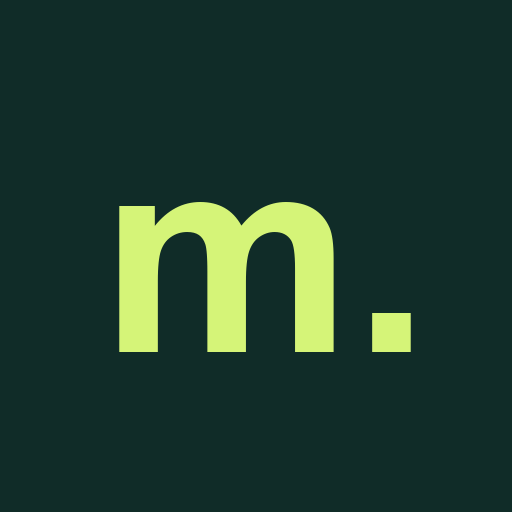
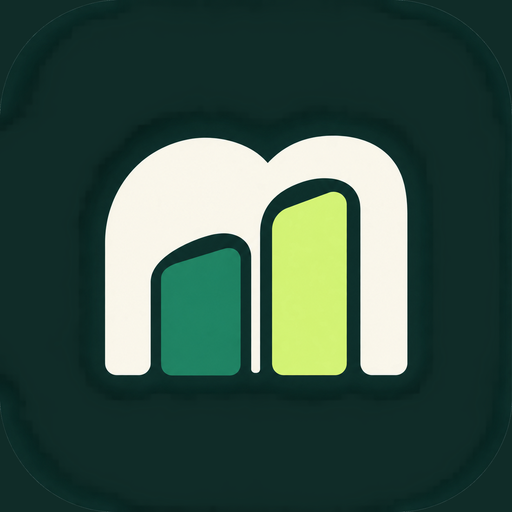
Adiciona novo ícone do Meu dinheiro

Changed region(s): [[0.1875, 0.25, 0.8125, 0.75]]

diff --git a/index.html b/index.html
@@ -1,2 +1,3 @@
-<!doctype html><html lang="pt-BR"><head><meta charset="utf-8"><meta name="viewport" content="width=device-width,initial-scale=1,viewport-fit=cover"><meta name="theme-color" content="#102c28"><meta name="description" content="Seu orçamento, contas e metas em um só lugar."><meta name="apple-mobile-web-app-capable" content="yes"><title>Meu dinheiro</title><link rel="manifest" href="./manifest.webmanifest"><link rel="icon" href="./icon.svg"><link rel="apple-touch-icon" href="./icon-192.png"><link rel="stylesheet" href="./style.css"><link rel="stylesheet" href="./cloud.css"></head><body><aside><a class="brand" href="#inicio"><span class="logo">m.</span> meu dinheiro</a><p class="side-label">SEU ESPAÇO FINANCEIRO</p><nav id="nav"></nav><div class="side-bottom">Sincronizado na sua conta<br><small>Seu dinheiro, no seu ritmo.</small></div></aside><div class="shell"><div class="cloud-bar"><div><strong id="account-name">Sua conta</strong><span id="sync-status" role="status">Conectando…</span></div><div class="zoom-control" aria-label="Tamanho da tela"><button id="zoom-out" type="button" aria-label="Diminuir tamanho">A−</button><span id="zoom-value">100%</span><button id="zoom-in" type="button" aria-label="Aumentar tamanho">A+</button></div><button id="retry-sync" hidden>Sincronizar</button><button id="resolve-conflict" hidden>Carregar versão da conta</button><button id="migrate-local" hidden>Importar dados deste aparelho</button><button id="logout" hidden>Sair</button></div><header><div><span class="eyebrow">VIDA FINANCEIRA</span><h1 id="title">Visão geral</h1></div><div class="header-actions"><input id="month" type="month" aria-label="Mês do planejamento"><button class="primary" id="add">＋ <span>Novo lançamento</span></button></div></header><main id="content"></main><footer>Confira o status de sincronização antes de fechar.</footer></div><nav id="mobile-nav"></nav><dialog id="modal"><div class="dialog-head"><h2 id="modal-title"></h2><button id="close" aria-label="Fechar">✕</button></div><form id="form"></form></dialog><div id="toast" role="status"></div><section id="account-gate"><div class="login-card"><span class="logo">m.</span><h1>Seu dinheiro,<br>em qualquer aparelho.</h1><p id="account-message">Conectando à sua conta…</p><button id="google-login" class="primary" hidden>Entrar com Google</button><button id="retry-account" hidden>Tentar novamente</button><small>Use a mesma conta Google em todos os aparelhos. Somente você tem acesso ao orçamento da sua conta.</small></div></section><script src="./zoom.js"></script><script src="./app.js?v=10"></script><script type="module">import('./cloud.js').catch(()=>{document.querySelector('#account-message').textContent='Não foi possível carregar a conexão. Verifique sua internet e tente novamente.';const b=document.querySelector('#retry-account');b.hidden=false;b.onclick=()=>location.reload();});</script></body></html>
+<!doctype html><html lang="pt-BR"><head><meta charset="utf-8"><meta name="viewport" content="width=device-width,initial-scale=1,viewport-fit=cover"><meta name="theme-color" content="#102c28"><meta name="description" content="Seu orçamento, contas e metas em um só lugar."><meta name="apple-mobile-web-app-capable" content="yes"><title>Meu dinheiro</title><link rel="manifest" href="./manifest.webmanifest"><link rel="icon" href="./icon-192.png"><link rel="apple-touch-icon" href="./icon-192.png"><link rel="stylesheet" href="./style.css"><link rel="stylesheet" href="./cloud.css"></head><body><aside><a class="brand" href="#inicio"><span class="logo">m.</span> meu dinheiro</a><p class="side-label">SEU ESPAÇO FINANCEIRO</p><nav id="nav"></nav><div class="side-bottom">Sincronizado na sua conta<br><small>Seu dinheiro, no seu ritmo.</small></div></aside><div class="shell"><div class="cloud-bar"><div><strong id="account-name">Sua conta</strong><span id="sync-status" role="status">Conectando…</span></div><div class="zoom-control" aria-label="Tamanho da tela"><button id="zoom-out" type="button" aria-label="Diminuir tamanho">A−</button><span id="zoom-value">100%</span><button id="zoom-in" type="button" aria-label="Aumentar tamanho">A+</button></div><button id="retry-sync" hidden>Sincronizar</button><button id="resolve-conflict" hidden>Carregar versão da conta</button><button id="migrate-local" hidden>Importar dados deste aparelho</button><button id="logout" hidden>Sair</button></div><header><div><span class="eyebrow">VIDA FINANCEIRA</span><h1 id="title">Visão geral</h1></div><div class="header-actions"><input id="month" type="month" aria-label="Mês do planejamento"><button class="primary" id="add">＋ <span>Novo lançamento</span></button></div></header><main id="content"></main><footer>Confira o status de sincronização antes de fechar.</footer></div><nav id="mobile-nav"></nav><dialog id="modal"><div class="dialog-head"><h2 id="modal-title"></h2><button id="close" aria-label="Fechar">✕</button></div><form id="form"></form></dialog><div id="toast" role="status"></div><section id="account-gate"><div class="login-card"><span class="logo">m.</span><h1>Seu dinheiro,<br>em qualquer aparelho.</h1><p id="account-message">Conectando à sua conta…</p><button id="google-login" class="primary" hidden>Entrar com Google</button><button id="retry-account" hidden>Tentar novamente</button><small>Use a mesma conta Google em todos os aparelhos. Somente você tem acesso ao orçamento da sua conta.</small></div></section><script src="./zoom.js"></script><script src="./app.js?v=10"></script><script type="module">import('./cloud.js').catch(()=>{document.querySelector('#account-message').textContent='Não foi possível carregar a conexão. Verifique sua internet e tente novamente.';const b=document.querySelector('#retry-account');b.hidden=false;b.onclick=()=>location.reload();});</script></body></html>
+
 

diff --git a/sw.js b/sw.js
@@ -1,4 +1,4 @@
-const CACHE='meu-dinheiro-futuros-v11';
+const CACHE='meu-dinheiro-icon-v12';
 const FILES=['./','./index.html','./style.css','./cloud.css','./zoom.js','./cloud.js','./firebase-config.js','./app.js?v=10','./manifest.webmanifest','./icon-192.png','./icon-512.png','./icon.svg'];
 self.addEventListener('install',e=>e.waitUntil(caches.open(CACHE).then(c=>c.addAll(FILES)).then(()=>self.skipWaiting())));
 self.addEventListener('activate',e=>e.waitUntil(caches.keys().then(keys=>Promise.all(keys.filter(k=>k.startsWith('meu-dinheiro-')&&k!==CACHE).map(k=>caches.delete(k)))).then(()=>self.clients.claim())));
@@ -10,5 +10,6 @@ self.addEventListener('fetch',e=>{
  }).catch(async()=>await caches.match(e.request)||(e.request.mode==='navigate'?await caches.match('./index.html'):Response.error())));
 });
 self.addEventListener('notificationclick',e=>{e.notification.close();e.waitUntil(clients.openWindow('./#contas'))});
+
 
 
